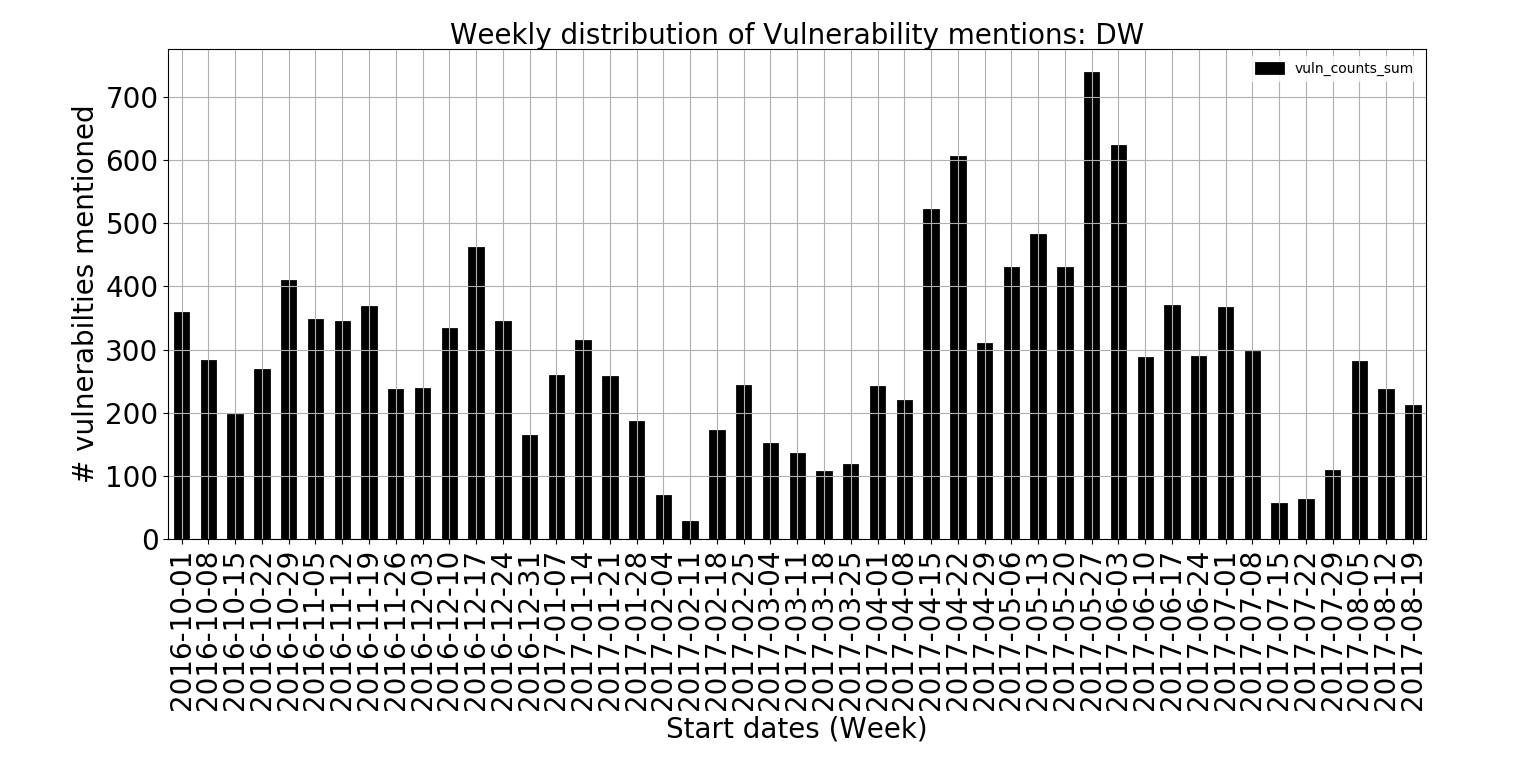
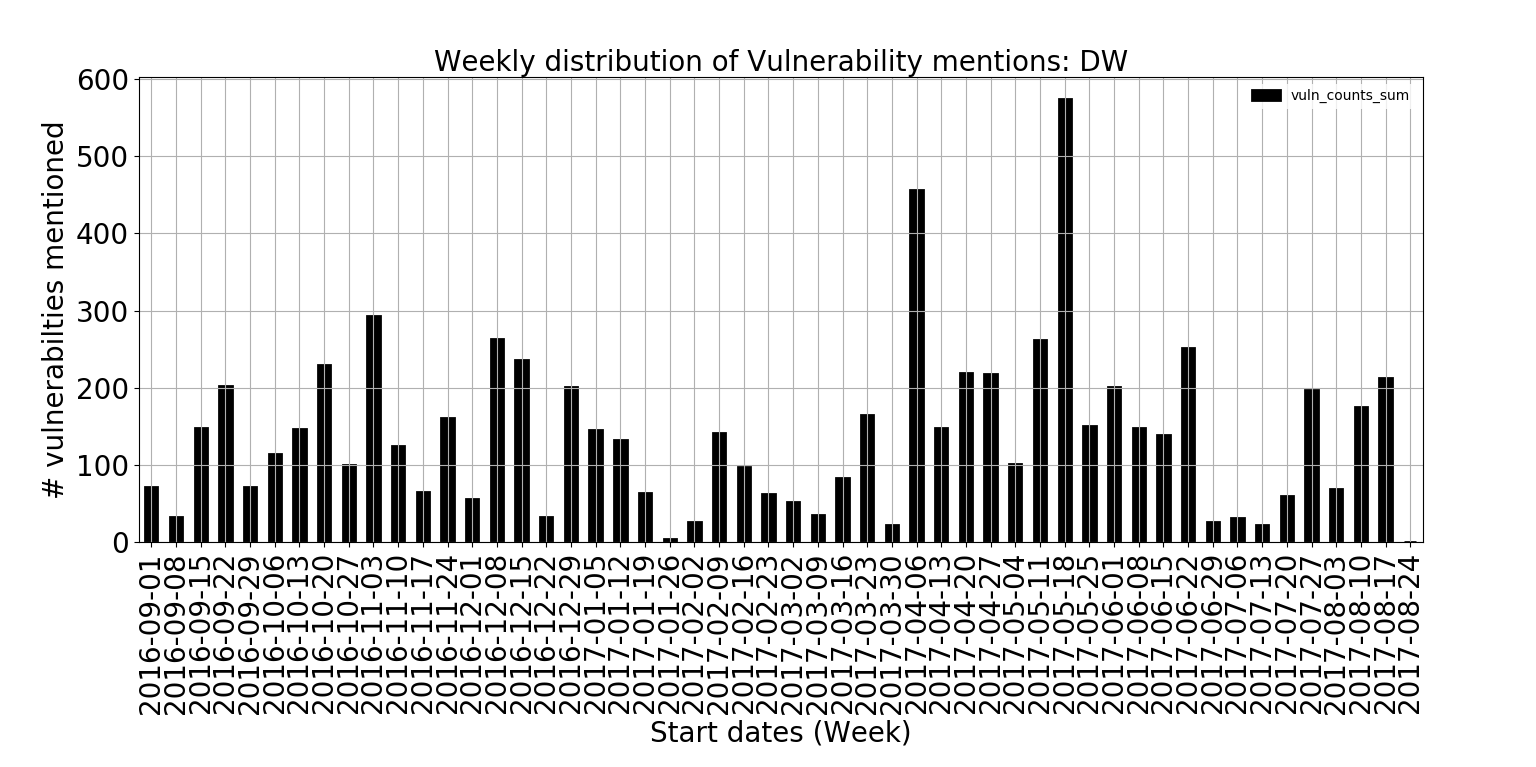
plots

Changed region(s): [[0.0312, 0.03, 0.9375, 0.9896], [0.9062, 0.3598, 0.9375, 0.4198], [0.9062, 0.2699, 0.9375, 0.3299]]

diff --git a/src/time_series/feature_ts.py b/src/time_series/feature_ts.py
@@ -18,16 +18,24 @@ pd.set_option("display.precision", 2)
 from pylab import plot, show, savefig, xlim, figure, \
                 hold, ylim, legend, boxplot, setp, axes
 
-forumsList = [35, 38, 133, 135, 146,  150, 161, 197, ]
+# Top forums by count in the Armstrong timeframe > 1000 posts
+forums = [129, 6, 112, 77, 69, 178, 31, 134, 193, 56, 201, 250, 13,
+          205, 194, 110, 121, 233, 23, 232, 44, 29, 97, 204, 82, 155,
+          48, 93, 45, 126, 174, 117, 41, 248, 177, 135, 22, 172, 189,
+          14, 137, 231, 91, 55, 192, 245, 234, 199, 7, 184, 43, 183, 57]
+
+forums_features = [129, 6, 112, 77, 69, 178, 31, 134, 193, 56, 201, 250, 13, 205, 194, 110, 121]
 
 
 class ArgsStruct:
     name = ''
-    feat_concat = False
+    LOAD_DATA = True
+    feat_concat = True
     forumsSplit = False
     plot_data = False
-    plot_time_series = False
+    plot_time_series = True
     plot_subspace = False
+    TYPE_PLOT = 'LINE'  ''' BAR: bar plot, LINE: line plot, STEM: stem plot'''
 
 
 def prepareOutput(eventsDf, start_date, end_date):
@@ -278,11 +286,8 @@ def concatenateDf(featList, featDir):
     return feat_df
 
 
-# def time_to_event():
-
-
 def plot_ts(df, plot_dir, title):
-    print(df[:10])
+    # print(df[:10])
     if not os.path.exists(plot_dir):
         os.makedirs(plot_dir)
 
@@ -291,6 +296,31 @@ def plot_ts(df, plot_dir, title):
             continue
 
         df.plot(figsize=(12,8), x='date', y=feat, color='black', linewidth=2)
+        plt.grid(True)
+        plt.xticks(size=20)
+        plt.yticks(size=20)
+        plt.title(title, size=20)
+        plt.xlabel('date', size=20)
+        plt.ylabel(feat, size=20)
+        plt.subplots_adjust(left=0.13, bottom=0.25, top=0.9)
+        file_save = plot_dir + feat  + '.png'
+        plt.savefig(file_save)
+        plt.close()
+
+
+def plot_ts_bar(df, plot_dir, title):
+    # print(df[:10])
+    if not os.path.exists(plot_dir):
+        os.makedirs(plot_dir)
+
+    for feat in df.columns.values:
+        if feat == 'date' or feat == 'forum':
+            continue
+
+        fig, ax = plt.subplots()
+        df['date'] = pd.to_datetime(df['date'])
+        df['date'] = df['date'].dt.date
+        df.plot.bar(figsize=(12,8), ax=ax, x='date', y=feat, color='black', linewidth=2)
         plt.grid(True)
         plt.xticks(size=20)
         plt.yticks(size=20)
@@ -345,13 +375,15 @@ def computeAnomalyCount(subspace_df):
 def main():
     ''' Set the arguments for the data preprocessing here '''
     args = ArgsStruct()
-    args.feat_concat = False
+    args.LOAD_DATA = True
+    args.feat_concat = True
     args.forumsSplit = False
     args.plot_data = False
     args.plot_time_series = True
     args.plot_subspace = False
+    args.TYPE_PLOT = 'LINE' 
 
-    trainStart_date = datetime.datetime.strptime('2016-04-01', '%Y-%m-%d')
+    trainStart_date = datetime.datetime.strptime('2016-10-01', '%Y-%m-%d')
     trainEnd_date = datetime.datetime.strptime('2017-09-01', '%Y-%m-%d')
 
     trainInst_start = trainStart_date + relativedelta(months=1)
@@ -361,42 +393,46 @@ def main():
     amEvents = pd.read_csv('../../data/Armstrong_data/amEvents_11_17.csv')
     amEvents_malware = amEvents[amEvents['type'] == 'malicious-email']
     trainOutput = prepareOutput(amEvents_malware, trainStart_date, trainEnd_date)
-    plot_dir = '../../plots/dw_stats/output/'
-    # plot_ts(trainOutput, plot_dir, '')
+
+    feat_df = pd.DataFrame()
+
+    if args.LOAD_DATA:
+        if args.feat_concat == False:
+            feat_df_graph = pd.read_pickle(
+                '../../data/DW_data/features/feat_forums/graph_stats_Forums_Delta_T0_Sept16-Apr17.pickle')
+            feat_df_users = pd.read_pickle(
+                '../../data/DW_data/features/feat_combine/user_interStats_Delta_T0_Sept16-Aug17.pickle')
+
+            feat_df_users_filter = feat_df_users.filter(items=['date', 'forum', 'expert_NonInteractions', 'expertsInteractions', 'numUsers'])
+            feat_df = pd.merge(feat_df_users_filter, feat_df_graph, on=['date',])
+            # pickle.dump(feat_df, open('../../data/DW_data/features/feat_forums/user_graph_Delta_T0_Sept16-Apr17.pickle', 'wb'))
+        else:
+            featDir = '../../data/DW_data/features/feat_combine/new/'
+
+            # Concatenate the features for each file
+            for feat_file in os.listdir(featDir):
+                feat_df_curr = pd.read_pickle(featDir + feat_file)
+                if feat_df.empty:
+                    feat_df = feat_df_curr
+                else:
+                    ''' if the features are segmented on forums '''
+                    if 'forum' not in feat_df_curr:
+                        feat_df = pd.merge(feat_df, feat_df_curr, on=['date', ])
+                    else:
+                        feat_df = pd.merge(feat_df, feat_df_curr, on=['date', 'forum'])
 
 
-    if args.feat_concat == False:
-        feat_df_graph = pd.read_pickle(
-            '../../data/DW_data/features/feat_forums/graph_stats_Forums_Delta_T0_Sept16-Apr17.pickle')
-        feat_df_users = pd.read_pickle(
-            '../../data/DW_data/features/feat_combine/user_interStats_Delta_T0_Sept16-Aug17.pickle')
+            # feat_df_graph = concatenateDf(features, featDir)
 
-        feat_df_users_filter = feat_df_users.filter(items=['date', 'forum', 'expert_NonInteractions', 'expertsInteractions', 'numUsers'])
-        feat_df = pd.merge(feat_df_users_filter, feat_df_graph, on=['date',])
-        # pickle.dump(feat_df, open('../../data/DW_data/features/feat_forums/user_graph_Delta_T0_Sept16-Apr17.pickle', 'wb'))
+            # feat_anomalies = pd.read_pickle(
+            #     '../../data/DW_data/features/subspace_anomalies_v12_22.pickle')
 
-    else:
-        features = ['shortestPaths', 'conductance', 'commThreads']
-        featDir = '../../data/DW_data/features/feat_combine/'
-        feat_df_graph = concatenateDf(features, featDir)
-
-        feat_df_users = pd.read_pickle(
-            '../../data/DW_data/features/feat_combine/user_interStats_DeltaT_2_Sept16-Apr17_TP10.pickle')
-        feat_df_users = feat_df_users.filter(
-            items=['date', 'forum', 'expert_NonInteractions', 'expertsInteractions', 'numUsers'])
-
-        feat_df = pd.merge(feat_df_users, feat_df_graph, on=['date'])
-
-        feat_anomalies = pd.read_pickle(
-            '../../data/DW_data/features/subspace_anomalies_v12_22.pickle')
-
-        feat_df = pd.merge(feat_df, feat_anomalies, on=['date'])
-        pickle.dump(feat_df,
-                    open('../../data/DW_data/features/feat_combine/user_graph_Delta_T0_Sept16-Apr17.pickle', 'wb'))
+            # pickle.dump(feat_df,
+            #             open('../../data/DW_data/features/feat_combine/user_graph_Delta_T0_Sept16-Apr17.pickle', 'wb'))
 
 
-    train_featDf = feat_df[feat_df['date'] >= trainStart_date]
-    train_featDf = train_featDf[train_featDf['date'] < trainEnd_date]
+        # train_featDf = feat_df[feat_df['date'] >= trainStart_date]
+        # train_featDf = train_featDf[train_featDf['date'] < trainEnd_date]
 
     ''' Some plot functionalities '''
     delta_time_prev = 14
@@ -413,14 +449,20 @@ def main():
                 plot_dir = '../../plots/dw_stats/feat_plot/feat_forums/feature_distribution/user_stats/'
                 plot_box_dist(attack_hist, non_attack_hist, title, plot_dir, delta_time_prev)
 
-
     if args.plot_time_series == True:
         if args.forumsSplit == False:
-            plot_dir = '../../plots/dw_stats/feat_plot/feat_combine/time_series/user_stats/'
-            title = 'Statistics'
-            plot_ts(feat_df_users, plot_dir, title)
+            # feat_df = pd.read_pickle('../../data/DW_data/features/feat_combine/user_interStats_weekly_Delta_T0_Sept16-Aug17.pickle')
+            feat_df = feat_df[feat_df['date'] >= trainStart_date]
+            feat_df = feat_df[feat_df['date'] < trainEnd_date]
+            plot_dir = '../../plots/dw_stats/feat_plot/feat_combine/time_series/daily/'
+            title = 'Time Series: Daily '
+            if args.TYPE_PLOT == 'LINE':
+                plot_ts(feat_df, plot_dir, title)
+            elif args.TYPE_PLOT == 'BAR':
+                plot_ts_bar(feat_df, plot_dir, title)
+
         else:
-            for f in forumsList:
+            for f in forums:
                 forum_feat_df = train_featDf[train_featDf['forum'] == f]
                 plot_dir = '../../plots/dw_stats/feat_plot/feat_forums/time_series/graph_stats/'
                 title = 'Forum_' + str(f)

diff --git a/src/time_series/cve_event.py b/src/time_series/cve_event.py
@@ -70,8 +70,8 @@ def weeklyCVE_event_corr(eventsDf, vulnInfo, cve_cpe_map, start_date, end_date):
         vulnsCurr = {}
         cpesCurr = {}
         # try:
-        vulWeek = vulnInfo[vulnInfo['posteddate'] >= startWeek - datetime.timedelta(days=14)]
-        vulWeek = vulWeek[vulWeek['posteddate'] < startWeek]
+        vulWeek = vulnInfo[vulnInfo['posteddate'] >= startWeek]
+        vulWeek = vulWeek[vulWeek['posteddate'] < endWeek]
 
         for idx, row in vulWeek.iterrows():
             cve = row['vulnerabilityid']
@@ -133,7 +133,7 @@ def loadVulnInfo(df):
 
 def analyse_events(df_data):
     args = ArgsStruct()
-    args.plot_data = False
+    args.plot_data = True
     print(df_data[:10])
 
     if args.plot_data == True:
@@ -163,7 +163,7 @@ def analyse_events(df_data):
     df_data['vuln_counts_sum'] = vuln_counts_list
 
     if args.plot_data == True:
-        df_data['start_dates'] = df_data['start_dates'].dt.date
+        df_data['start_dates'] = df_data['start_dates']
         title = 'Weekly distribution of Vulnerability mentions: DW'
         fig, ax = plt.subplots()
         df_data.plot.bar(ax=ax, x='start_dates', y='vuln_counts_sum', color='black', linewidth=2, )
@@ -180,23 +180,26 @@ def analyse_events(df_data):
         plt.show()
         plt.close()
 
+    return df_data
 
 
 def main():
     amEvents = pd.read_csv('../../data/Armstrong_data/amEvents_11_17.csv')
     amEvents_malware = amEvents[amEvents['type'] == 'malicious-email']
     vuln_df = pd.read_csv('../../data/DW_data/VulnInfo_11_17.csv', encoding='ISO-8859-1', engine='python')
-    cve_cpe_map = pickle.load(open('../../data/DW_data/cve_cpe_map.pickle', 'rb'))
+    cve_cpe_map = pickle.load(open('../../data/DW_data/new_DW/cve_cpe_map_new.pickle', 'rb'))
 
-    trainStart_date = datetime.datetime.strptime('2016-10-01', '%Y-%m-%d')
-    trainEnd_date = datetime.datetime.strptime('2017-09-01', '%Y-%m-%d')
+    trainStart_date = datetime.datetime.strptime('2016-09-01', '%Y-%m-%d')
+    trainEnd_date = datetime.datetime.strptime('2017-09-10', '%Y-%m-%d')
 
-    # outputDf = weeklyCVE_event_corr(amEvents_malware, vuln_df, cve_cpe_map, trainStart_date, trainEnd_date)
+    outputDf = weeklyCVE_event_corr(amEvents_malware, vuln_df, cve_cpe_map, trainStart_date, trainEnd_date)
 
-    # pickle.dump(outputDf, open('../../data/DW_data/CPE_events_corr.pickle', 'wb'))
+    pickle.dump(outputDf, open('../../data/DW_data/CPE_events_corr.pickle', 'wb'))
 
     cve_eventsDf = pd.read_pickle('../../data/DW_data/CPE_events_corr.pickle')
-    analyse_events(cve_eventsDf)
+    outputDf = analyse_events(cve_eventsDf)
+    pickle.dump(outputDf, open('../../data/DW_data/CPE_events_corr.pickle', 'wb'))
+
 
 if __name__ == "__main__":
     main()

diff --git a/src/learning/time_series/time_series_corr.py b/src/learning/time_series/time_series_corr.py
@@ -1,0 +1,66 @@
+import time
+import matplotlib.pyplot as plt
+import pandas as pd
+import numpy as np
+import datetime
+
+def plot_correlation_matrices(corrMat):
+    ''
+
+
+def time_lagged_cross_correlation_ts(ts_1, ts_2, start_date, end_date, tlag=1):
+    '''
+    This function computes the cross correlation between the two time series
+    with a lag order of tlag.
+
+    Ideally the cross correlation function between 2 TS
+    is assymteric, therefore it is also needed to change the
+    :param ts_1:
+    :param ts_2:
+    :param tlag: Time lag order between the two series
+    :return:
+    '''
+
+    # Filter the dataframes based on the input date ranges
+    ts_1 = ts_1[ts_1['start_dates'] >= start_date.date()]
+    ts_1 = ts_1[ts_1['start_dates'] < end_date.date()]
+
+    ts_2 = ts_2[ts_2['start_dates'] >= start_date.date()]
+    ts_2 = ts_2[ts_2['start_dates'] < end_date.date()]
+
+
+    # Convert the time series Dataframe into pandas series object of 1d TS
+    ts_1_1d = ts_1.ix[:, 1]
+    ts_2_1d = ts_2.ix[:, 1]
+
+    max_lag_order = 6
+    correlationMatrix = [[] for _ in range(max_lag_order)]
+    for lag_idx in range(1, max_lag_order+1):
+        ts_1_1d_shift = ts_1_1d.shift(periods=-lag_idx)
+        ts_1_1d_shift = ts_1_1d_shift[:-lag_idx]
+        ts_2_1d = ts_2_1d[lag_idx:]
+
+        correlationMatrix[lag_idx-1] = np.correlate(ts_1_1d_shift, ts_2_1d)
+        print(np.correlate(ts_1_1d_shift, ts_2_1d))
+        # correlationMatrix[lag_idx-1] += ([0.] * lag_idx)
+
+    return np.array(correlationMatrix)
+
+
+def main():
+    ''
+
+    # Load the time series data for measuring cross correlation
+    cve_eventsDf = pd.read_pickle('../../../data/DW_data/CPE_events_corr.pickle')
+
+    ts_1 = cve_eventsDf[['start_dates', 'number_attacks']]
+    ts_2 = cve_eventsDf[['start_dates', 'vuln_counts_sum']]
+
+    start_date = datetime.datetime.strptime('2016-10-01', '%Y-%m-%d')
+    end_date = datetime.datetime.strptime('2017-09-01', '%Y-%m-%d')
+
+    corrMat = time_lagged_cross_correlation_ts(ts_1, ts_2, start_date, end_date)
+    print(corrMat)
+
+if __name__ == "__main__":
+    main()
